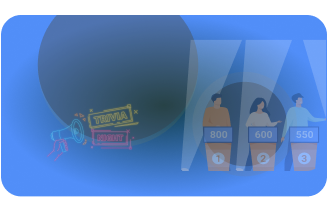
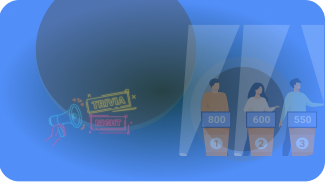
fix spacing issues

diff --git a/src/features/LiveTrivia/LiveTriviaCard.js b/src/features/LiveTrivia/LiveTriviaCard.js
@@ -56,8 +56,7 @@ const LiveTriviaCard = () => {
             <ImageBackground
                 source={require('../../../assets/images/live-trivia-card-background-blue.png')}
                 style={styles.triviaBackground}
-                imageStyle={{ borderRadius: 20 }}
-                resizeMode='cover'>
+                resizeMode='stretch'>
                 <FailedBottomSheet
                     pointsRequired={trivia.point_eligibility}
                     refBottomSheet={notEnoughPointNotice}
@@ -179,13 +178,12 @@ const styles = EStyleSheet.create({
         borderRadius: 20,
     },
     triviaContainer: {
-        padding:'1rem'
+        padding: '1rem'
     },
     triviaTop: {
         flexDirection: 'row',
         justifyContent: 'space-between',
         alignItems: 'center',
-        // backgroundColor: "red",
     },
     triviaTopText: {
         fontSize: '.85rem',

diff --git a/src/features/Home/HomeScreen.js b/src/features/Home/HomeScreen.js
@@ -267,12 +267,13 @@ const styles = EStyleSheet.create({
     },
     userDetails: {
         backgroundColor: '#072169',
-        paddingVertical: normalize(10),
+        paddingVertical: normalize(20),
         paddingHorizontal: normalize(20),
     },
     wallet: {
         flexDirection: 'row',
         alignItems: 'center',
+        marginBottom: normalize(10),
     },
     walletText: {
         fontSize: '1.2rem',
